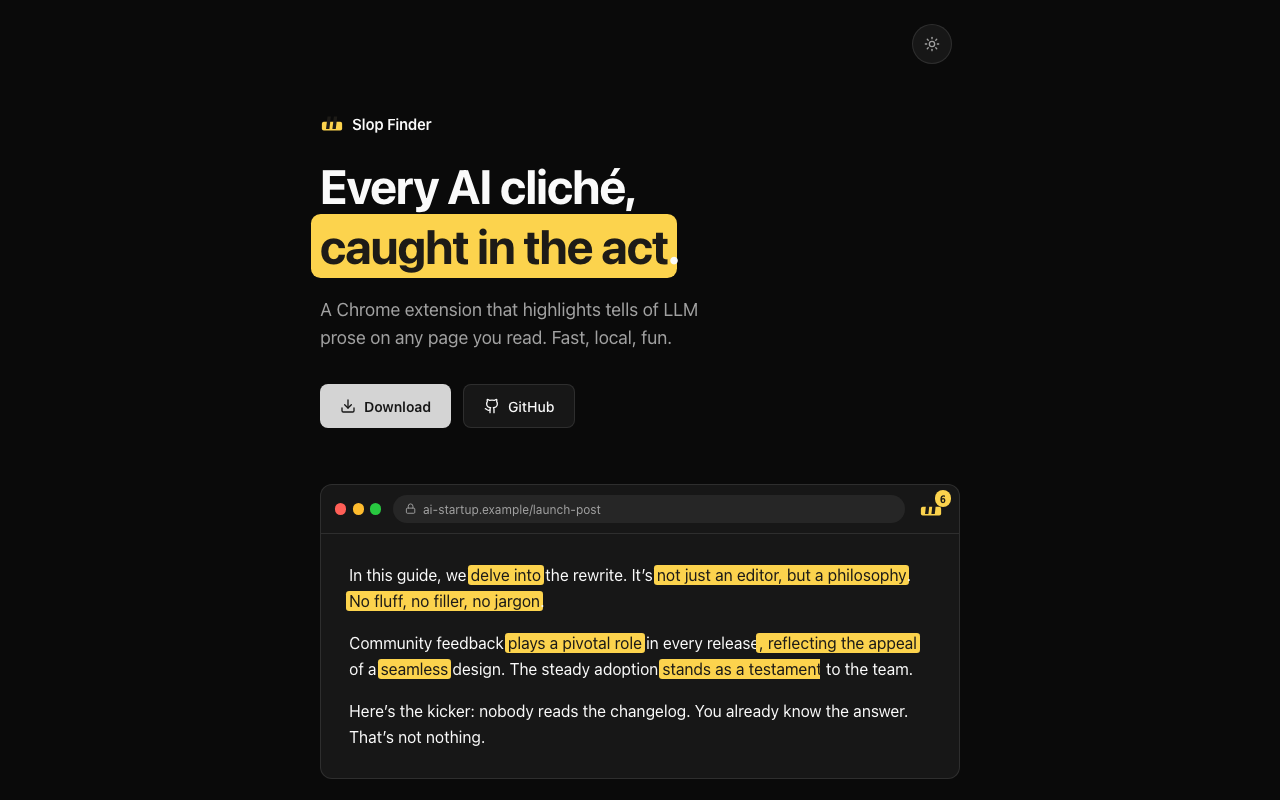
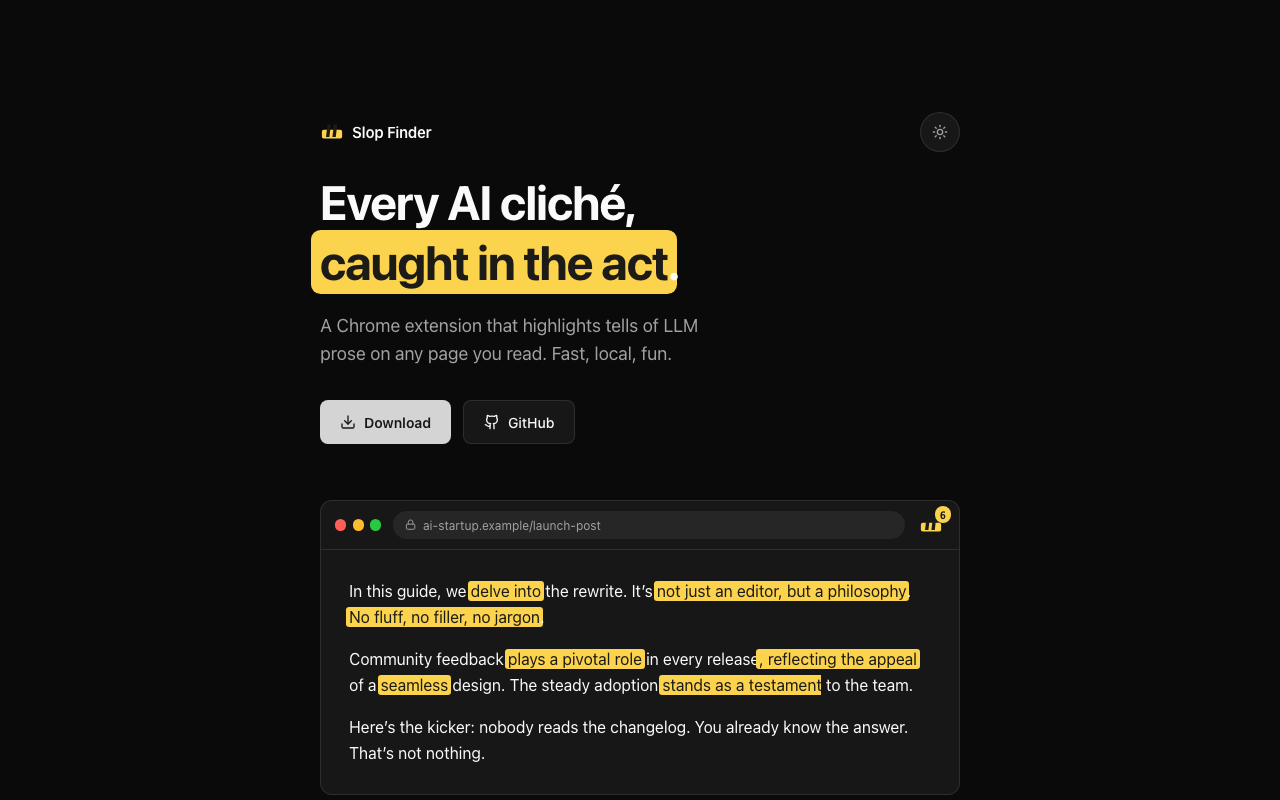
Site polish: inline theme toggle, no footer hairline, author credit
Theme toggle moves from the floating corner into the wordmark row, the
footer loses its top border, and the credits add "Extension by Will
Newton" linking willnewton.dev. Store landing screenshots regenerated.

diff --git a/site/index.html b/site/index.html
@@ -113,11 +113,8 @@
     }
   }
 
-  /* ---- Theme toggle ---- */
+  /* ---- Theme toggle (inline with the wordmark row) ---- */
   .theme-toggle {
-    position: absolute;
-    right: 1rem;
-    top: 1rem;
     display: inline-flex;
     align-items: center;
     justify-content: center;
@@ -130,20 +127,26 @@
     cursor: pointer;
     transition: color 0.15s;
     padding: 0;
+    flex-shrink: 0;
   }
   .theme-toggle:hover { color: var(--foreground); }
-  @media (min-width: 640px) { .theme-toggle { right: 1.5rem; top: 1.5rem; } }
   .theme-toggle svg { width: 1rem; height: 1rem; }
   .theme-toggle .icon-sun { display: none; }
   .dark .theme-toggle .icon-sun { display: block; }
   .dark .theme-toggle .icon-moon { display: none; }
 
   /* ---- Hero ---- */
+  .topbar {
+    display: flex;
+    align-items: center;
+    justify-content: space-between;
+    gap: 1rem;
+    margin-bottom: 1.25rem;
+  }
   .wordmark {
     display: flex;
     align-items: center;
     gap: 0.5rem;
-    margin-bottom: 1.25rem;
     font-size: 0.9375rem;
     font-weight: 600;
     letter-spacing: -0.01em;
@@ -297,10 +300,8 @@
 
   footer {
     margin-top: 4rem;
-    border-top: 1px solid var(--border);
-    padding-top: 1rem;
     font-size: 0.75rem;
-    line-height: 1rem;
+    line-height: 1.4;
     color: var(--muted-foreground);
   }
   footer a {
@@ -312,15 +313,16 @@
 </head>
 <body>
 <main>
-  <button type="button" class="theme-toggle" id="theme-toggle" aria-label="Toggle theme">
-    <svg class="icon-sun" viewBox="0 0 24 24" fill="none" stroke="currentColor" stroke-width="2" stroke-linecap="round" stroke-linejoin="round" aria-hidden="true"><circle cx="12" cy="12" r="4"/><path d="M12 2v2"/><path d="M12 20v2"/><path d="m4.93 4.93 1.41 1.41"/><path d="m17.66 17.66 1.41 1.41"/><path d="M2 12h2"/><path d="M20 12h2"/><path d="m6.34 17.66-1.41 1.41"/><path d="m19.07 4.93-1.41 1.41"/></svg>
-    <svg class="icon-moon" viewBox="0 0 24 24" fill="none" stroke="currentColor" stroke-width="2" stroke-linecap="round" stroke-linejoin="round" aria-hidden="true"><path d="M12 3a6 6 0 0 0 9 9 9 9 0 1 1-9-9Z"/></svg>
-  </button>
-
   <header>
-    <div class="wordmark">
-      <img src="logo.svg" alt="">
-      Slop Finder
+    <div class="topbar">
+      <div class="wordmark">
+        <img src="logo.svg" alt="">
+        Slop Finder
+      </div>
+      <button type="button" class="theme-toggle" id="theme-toggle" aria-label="Toggle theme">
+        <svg class="icon-sun" viewBox="0 0 24 24" fill="none" stroke="currentColor" stroke-width="2" stroke-linecap="round" stroke-linejoin="round" aria-hidden="true"><circle cx="12" cy="12" r="4"/><path d="M12 2v2"/><path d="M12 20v2"/><path d="m4.93 4.93 1.41 1.41"/><path d="m17.66 17.66 1.41 1.41"/><path d="M2 12h2"/><path d="M20 12h2"/><path d="m6.34 17.66-1.41 1.41"/><path d="m19.07 4.93-1.41 1.41"/></svg>
+        <svg class="icon-moon" viewBox="0 0 24 24" fill="none" stroke="currentColor" stroke-width="2" stroke-linecap="round" stroke-linejoin="round" aria-hidden="true"><path d="M12 3a6 6 0 0 0 9 9 9 9 0 1 1-9-9Z"/></svg>
+      </button>
     </div>
     <h1>
       Every AI cliché,
@@ -364,6 +366,8 @@
     <a href="https://github.com/simonw/tools/blob/main/llm-cliche-highlighter.html" target="_blank" rel="noreferrer">Simon Willison’s llm-cliche-highlighter</a>
     and Wikipedia’s
     <a href="https://en.wikipedia.org/wiki/Wikipedia:Signs_of_AI_writing" target="_blank" rel="noreferrer">Signs of AI writing</a>.
+    Extension by
+    <a href="https://willnewton.dev" target="_blank" rel="noreferrer">Will Newton</a>.
   </footer>
 </main>
 
